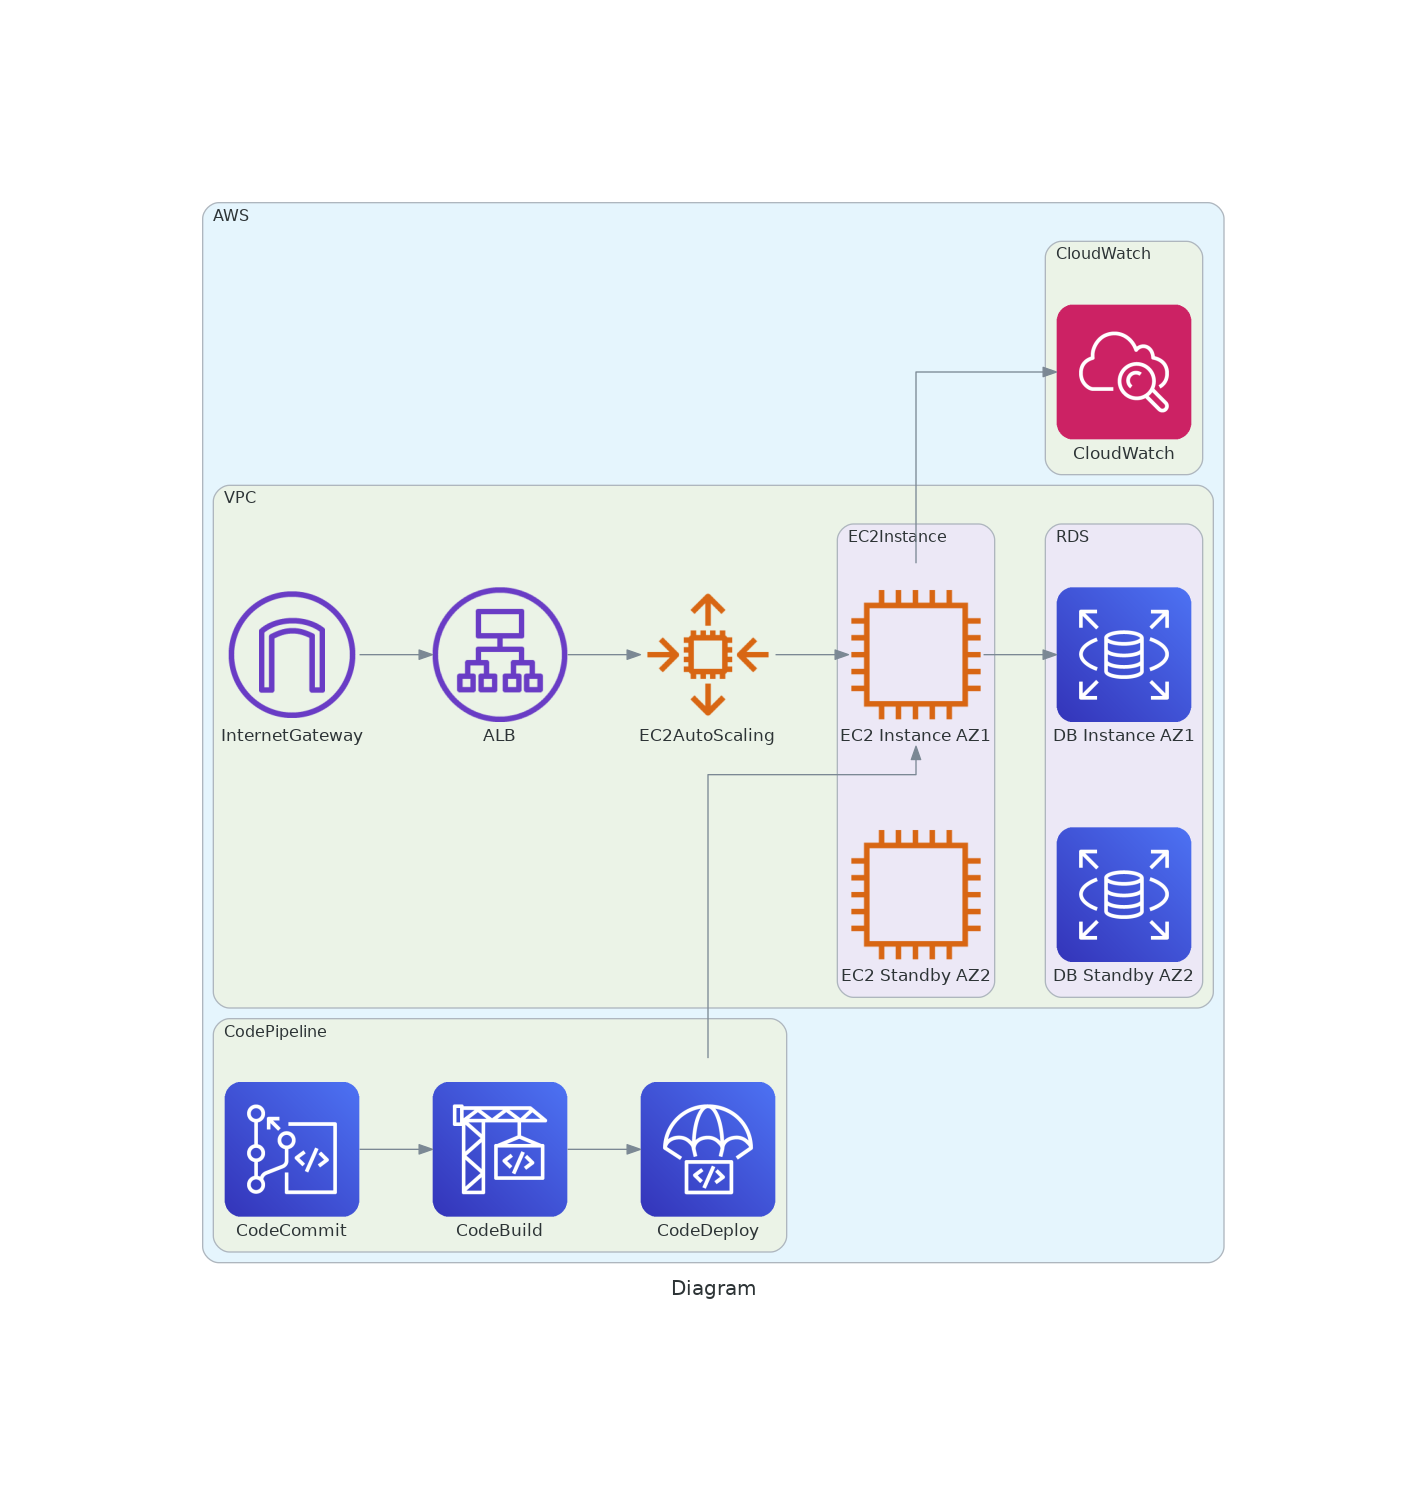
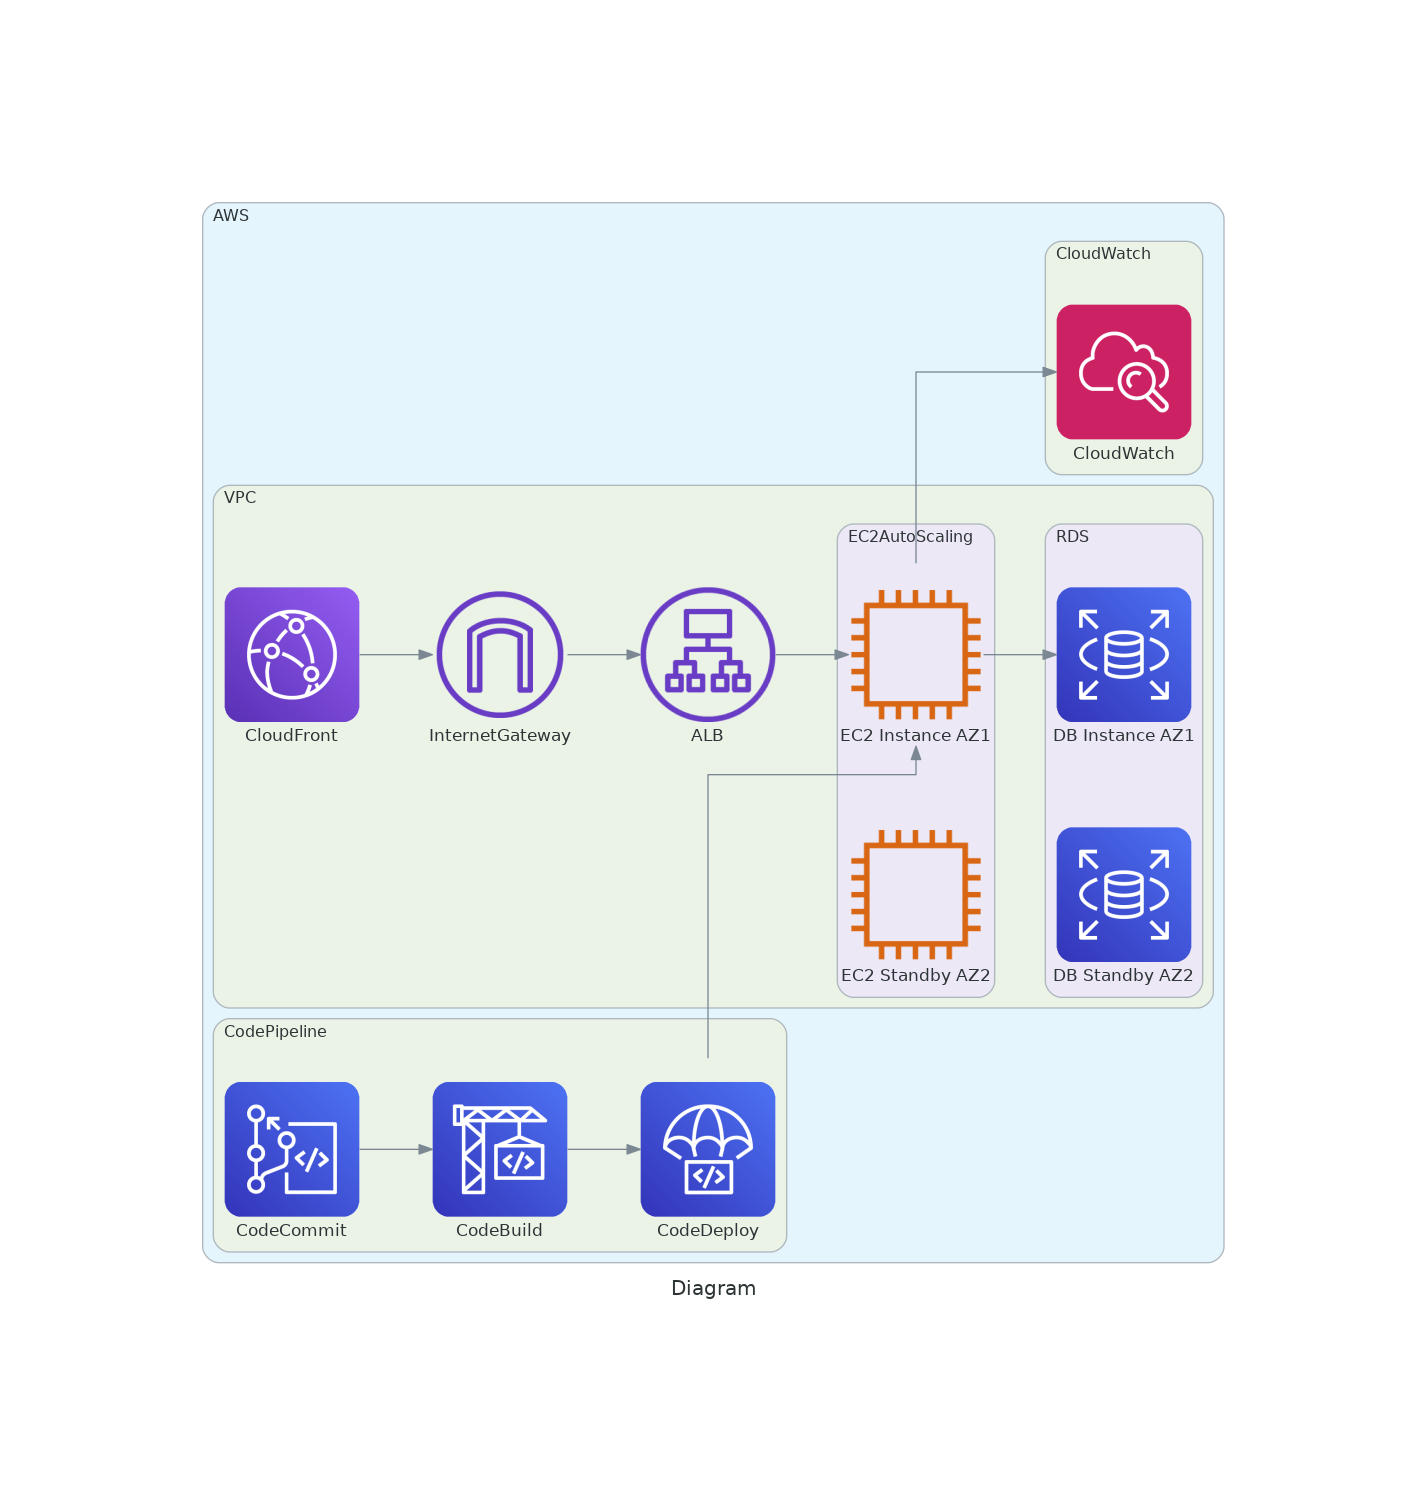
commit

Changed region(s): [[0.1542, 0.3682, 0.4008, 0.491], [0.4317, 0.3682, 0.555, 0.491], [0.6167, 0.3376, 0.6783, 0.3682]]

diff --git a/diagram.py b/diagram.py
@@ -1,5 +1,5 @@
 from diagrams import Diagram, Cluster
-from diagrams.aws.network import VPC, InternetGateway, ALB
+from diagrams.aws.network import VPC, CloudFront, InternetGateway, ALB
 from diagrams.aws.compute import EC2AutoScaling, EC2Instance
 from diagrams.aws.database import RDS
 from diagrams.aws.devtools import Codepipeline, Codecommit, Codebuild, Codedeploy
@@ -11,22 +11,21 @@ with Diagram("Diagram", direction="LR", show=False):
     with Cluster("AWS"):
 
         with Cluster("VPC"):
+            CloudFront = CloudFront("CloudFront")
             InternetGateway = InternetGateway("InternetGateway")
             ALB = ALB("ALB")
-            EC2AutoScaling = EC2AutoScaling("EC2AutoScaling")
-            with Cluster("EC2Instance"):
+            with Cluster("EC2AutoScaling"):
                 EC2Instance = [EC2Instance("EC2 Instance AZ1"), EC2Instance("EC2 Standby AZ2")]
             with Cluster("RDS"):
                 RDS = [RDS("DB Instance AZ1"), RDS("DB Standby AZ2")]      
-            InternetGateway >> ALB >> EC2AutoScaling >> EC2Instance[0] >> RDS[0]
+            CloudFront >> InternetGateway >> ALB >> EC2Instance[0] >> RDS[0]
+
+        with Cluster("CloudWatch"):
+            Cloudwatch = Cloudwatch("CloudWatch")
+            EC2Instance[0] >> Cloudwatch
 
         with Cluster("CodePipeline"):
             Codecommit = Codecommit("CodeCommit")
             Codebuild = Codebuild("CodeBuild")
             Codedeploy = Codedeploy("CodeDeploy")
             Codecommit >> Codebuild >> Codedeploy >> EC2Instance[0]
-
-        with Cluster("CloudWatch"):
-            Cloudwatch = Cloudwatch("CloudWatch")
-            EC2Instance[0] >> Cloudwatch
-

diff --git a/README.md b/README.md
@@ -1,1 +1,24 @@
 # nordcloud
+
+AWS
+VPC
+CloudFront
+InternetGateway
+ALB
+EC2AutoScaling
+EC2 Instance AZ1
+EC2 Standby AZ2
+RDS
+DB Instance AZ1
+DB Standby AZ2
+CloudFront >> InternetGateway >> ALB >> EC2Instance[0] >> RDS[0]
+
+CloudWatch
+EC2Instance[0] >> Cloudwatch
+
+CodePipeline
+CodeCommit
+CodeBuild
+CodeDeploy
+Codecommit >> Codebuild >> Codedeploy >> EC2Instance[0]
+
